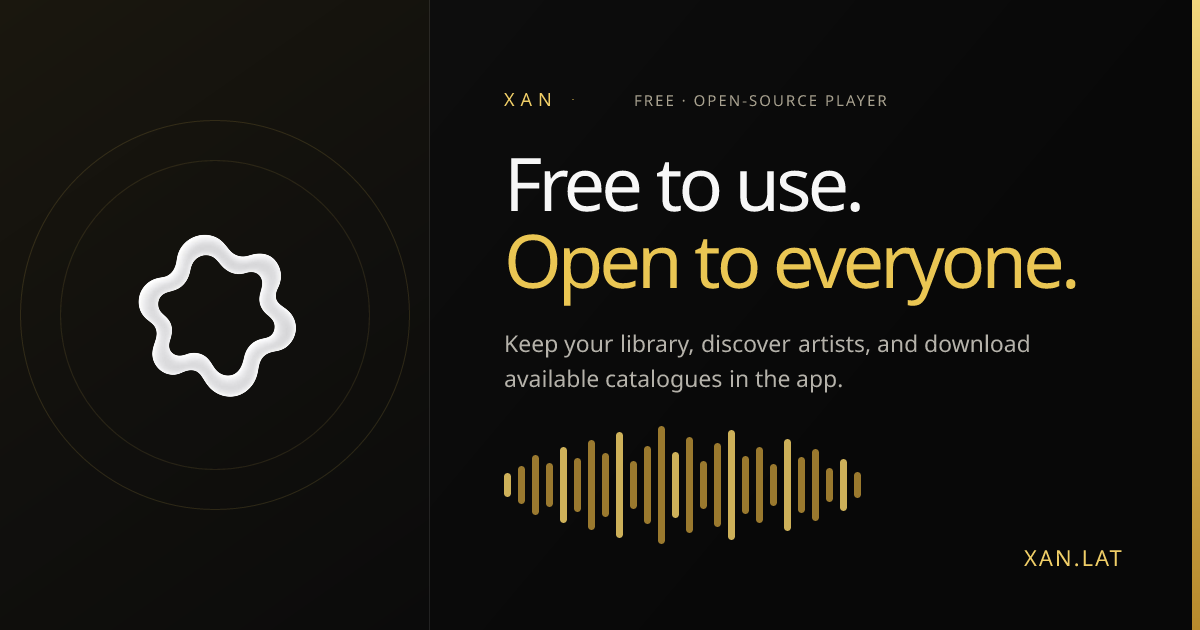
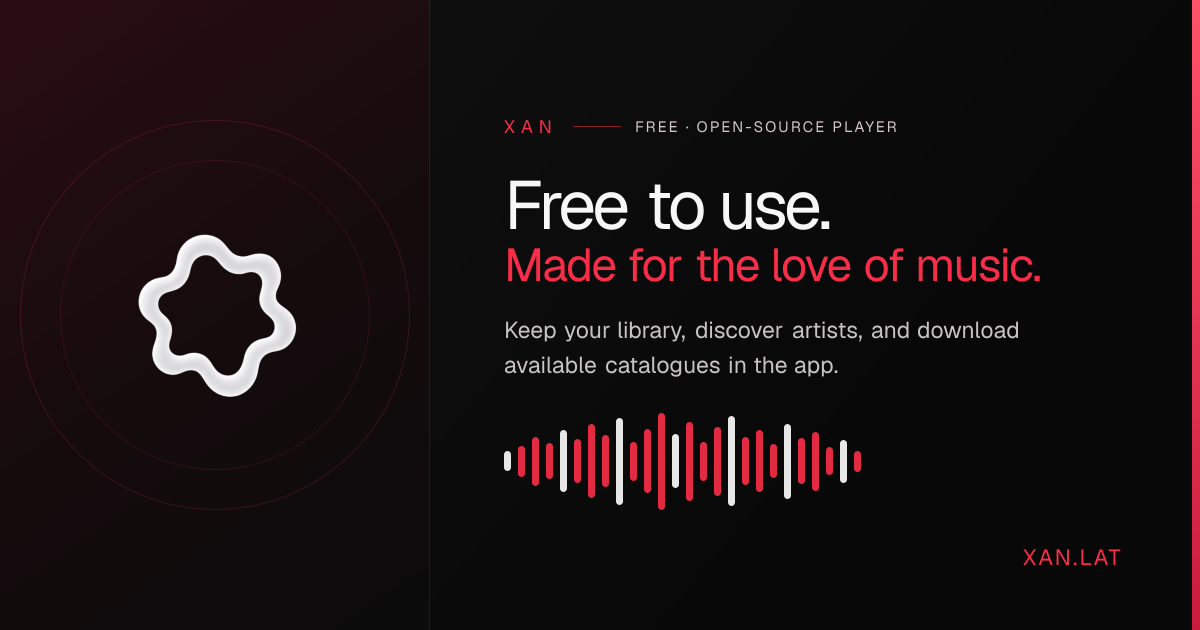
feat(web): refresh app screenshots and social card

diff --git a/web/lib/i18n.tsx b/web/lib/i18n.tsx
@@ -25,7 +25,7 @@ const translations: Record<Exclude<Language, "en">, Record<string, string>> = {
     "XAN EQUALIZER": "XAN-EQUALIZER", "Tune it your way.": "Stimme den Klang ab.", "Start with XAN’s circular three-range tuner, then open the five-band view for finer control. Your curve stays on this device and follows you between modes.": "Beginne mit dem runden Drei-Bereich-Regler von XAN und wechsle für mehr Kontrolle zur Fünf-Band-Ansicht. Deine Kurve bleibt auf diesem Gerät gespeichert.", "Equalizer presets": "Equalizer-Voreinstellungen", "Simple controls": "Einfache Steuerung", "Drag a range around the circle, or focus its slider and use the arrow keys.": "Ziehe einen Bereich im Kreis oder wähle seinen Regler und nutze die Pfeiltasten.", "XAN frequencies": "XAN-Frequenzen", "Advanced bands are sampled from the app’s real 31 Hz–16 kHz equalizer.": "Die erweiterten Bänder entsprechen dem echten 31-Hz-bis-16-kHz-Equalizer der App.", "Equalizer mode": "Equalizer-Modus", "Basic equalizer gain controls": "Einfache Equalizer-Regler", "Ten-band equalizer": "Zehn-Band-Equalizer", "All ten adjustable bands from 31 Hz to 16 kHz.": "Alle zehn einstellbaren Bänder von 31 Hz bis 16 kHz.", "Curve": "Kurve", "Basic": "Einfach", "Advanced": "Erweitert",
     "Back to XAN": "Zurück zu XAN", "Install the latest XAN release on your Android device.": "Installiere die aktuelle XAN-Version auf deinem Android-Gerät.", "A native macOS installer is in development.": "Ein nativer macOS-Installer ist in Entwicklung.", "An iOS version is in development.": "Eine iOS-Version ist in Entwicklung.", "A native Windows installer is in development.": "Ein nativer Windows-Installer ist in Entwicklung.", "A native Linux installer is in development.": "Ein nativer Linux-Installer ist in Entwicklung.", "Selected platform installer is in development": "Der Installer für die ausgewählte Plattform ist in Entwicklung.", "The latest release could not be loaded. You can still view it on GitHub.": "Die aktuelle Version konnte nicht geladen werden. Du kannst sie auf GitHub ansehen.", "Loading the latest release…": "Aktuelle Version wird geladen …",
     "Primary navigation": "Hauptnavigation", "Mobile navigation": "Mobile Navigation", "Download": "Herunterladen", "Source": "Quellcode", "View source code on GitHub": "Quellcode auf GitHub ansehen", "App": "App", "Support": "Unterstützung", "Choose language": "Sprache auswählen", "Back to top": "Nach oben",
-    "OPEN-SOURCE MUSIC PLAYER · ANDROID + DESKTOP": "OPEN-SOURCE-MUSIKPLAYER · ANDROID + DESKTOP", "Free to use.": "Kostenlos nutzbar.", "Open to everyone.": "Offen für alle.", "Keep your library, discover artists, and download available catalogues in the app.": "Behalte deine Bibliothek, entdecke Künstler und lade verfügbare Kataloge in der App herunter.", "Desktop version": "Desktop-Version", "Building right now": "Wird derzeit entwickelt", "CLONE THE SOURCE": "QUELLCODE KLONEN", "Start with the code.": "Starte mit dem Code.", "Choose your system, copy the command, and clone the public repository.": "Wähle dein System, kopiere den Befehl und klone das öffentliche Repository.", "Requires Git. The XAN app targets Android.": "Git erforderlich. Die XAN-App ist für Android vorgesehen.", "Explore XAN": "XAN entdecken",
+    "OPEN-SOURCE MUSIC PLAYER · ANDROID + DESKTOP": "OPEN-SOURCE-MUSIKPLAYER · ANDROID + DESKTOP", "Free to use.": "Kostenlos nutzbar.", "Made for the love of music.": "Aus Liebe zur Musik gemacht.", "Keep your library, discover artists, and download available catalogues in the app.": "Behalte deine Bibliothek, entdecke Künstler und lade verfügbare Kataloge in der App herunter.", "Desktop version": "Desktop-Version", "Building right now": "Wird derzeit entwickelt", "CLONE THE SOURCE": "QUELLCODE KLONEN", "Start with the code.": "Starte mit dem Code.", "Choose your system, copy the command, and clone the public repository.": "Wähle dein System, kopiere den Befehl und klone das öffentliche Repository.", "Requires Git. The XAN app targets Android.": "Git erforderlich. Die XAN-App ist für Android vorgesehen.", "Explore XAN": "XAN entdecken",
     "Download for Android": "Für Android herunterladen", "Choose installer": "Installer auswählen", "The latest Android APK will download automatically.": "Die aktuelle Android-APK wird automatisch heruntergeladen.", "Android is available now. Other installers are in development.": "Android ist jetzt verfügbar. Weitere Installer sind in Entwicklung.", "View all installer options": "Alle Installationsoptionen anzeigen", "XAN INSTALLERS": "XAN-INSTALLER", "Choose your device.": "Wähle dein Gerät.", "XAN is ready for Android. Installer builds for other platforms are in development.": "XAN ist für Android verfügbar. Installer für andere Plattformen sind in Entwicklung.", "Choose your device platform": "Geräteplattform auswählen", "Available now": "Jetzt verfügbar", "In development": "In Entwicklung", "SELECTED PLATFORM": "AUSGEWÄHLTE PLATTFORM", "Download Android APK": "Android-APK herunterladen", "View releases on GitHub": "Veröffentlichungen auf GitHub ansehen", "Looking for a specific build?": "Suchst du eine bestimmte Version?", "GitHub releases page": "GitHub-Veröffentlichungsseite", "lists every published Android installer.": "enthält alle veröffentlichten Android-Installer.",
     "APPEARANCE": "ERSCHEINUNGSBILD", "Glass when you want it.": "Glas, wenn du möchtest.", "Solid when you don’t.": "Solid, wenn nicht.", "Solid UI": "Solid-UI", "Glass UI": "Glass-UI", "LIQUID GLASS": "LIQUID GLASS", "Soft layers. Clear focus.": "Sanfte Ebenen. Klarer Fokus.", "Quiet surfaces. Strong contrast.": "Ruhige Flächen. Starker Kontrast.", "Switch the appearance to preview both styles.": "Wechsle das Erscheinungsbild, um beide Stile anzusehen.", "Previewing": "Vorschau:",
     "A modern open-source music player for Android.": "Ein moderner Open-Source-Musikplayer für Android.", "Made by bxane": "Erstellt von bxane", "SUPPORT XAN": "XAN UNTERSTÜTZEN", "Help keep it moving.": "Hilf mit, XAN voranzubringen.", "Choose the place that works for you.": "Wähle die passende Möglichkeit.", "Buy me a coffee": "Spendiere einen Kaffee", "Follow bxane": "bxane folgen", "GitHub profile": "GitHub-Profil", "COMMUNITY": "COMMUNITY", "Find your people.": "Finde deine Community.", "Join XAN updates and conversations.": "Verfolge XAN-Neuigkeiten und Gespräche.", "Chat with the community": "Mit der Community chatten", "Join the Telegram group": "Der Telegram-Gruppe beitreten",
@@ -36,7 +36,7 @@ const translations: Record<Exclude<Language, "en">, Record<string, string>> = {
     "XAN EQUALIZER": "ECUALIZADOR DE XAN", "Tune it your way.": "Ajusta el sonido a tu gusto.", "Start with XAN’s circular three-range tuner, then open the five-band view for finer control. Your curve stays on this device and follows you between modes.": "Empieza con el control circular de tres rangos de XAN y abre la vista de cinco bandas para ajustar con más precisión. La curva se guarda en este dispositivo.", "Equalizer presets": "Preajustes del ecualizador", "Simple controls": "Controles sencillos", "Drag a range around the circle, or focus its slider and use the arrow keys.": "Arrastra un rango por el círculo o selecciona su control y usa las flechas.", "XAN frequencies": "Frecuencias de XAN", "Advanced bands are sampled from the app’s real 31 Hz–16 kHz equalizer.": "Las bandas avanzadas reflejan el ecualizador real de 31 Hz a 16 kHz de la aplicación.", "Equalizer mode": "Modo del ecualizador", "Basic equalizer gain controls": "Controles básicos de ganancia", "Ten-band equalizer": "Ecualizador de diez bandas", "All ten adjustable bands from 31 Hz to 16 kHz.": "Las diez bandas ajustables de 31 Hz a 16 kHz.", "Curve": "Curva", "Basic": "Básico", "Advanced": "Avanzado",
     "Back to XAN": "Volver a XAN", "Install the latest XAN release on your Android device.": "Instala la versión más reciente de XAN en tu dispositivo Android.", "A native macOS installer is in development.": "El instalador nativo para macOS está en desarrollo.", "An iOS version is in development.": "La versión para iOS está en desarrollo.", "A native Windows installer is in development.": "El instalador nativo para Windows está en desarrollo.", "A native Linux installer is in development.": "El instalador nativo para Linux está en desarrollo.", "Selected platform installer is in development": "El instalador de la plataforma seleccionada está en desarrollo.", "The latest release could not be loaded. You can still view it on GitHub.": "No se pudo cargar la última versión. Aun así, puedes verla en GitHub.", "Loading the latest release…": "Cargando la última versión…",
     "Primary navigation": "Navegación principal", "Mobile navigation": "Navegación móvil", "Download": "Descargar", "Source": "Código fuente", "View source code on GitHub": "Ver el código fuente en GitHub", "App": "Aplicación", "Support": "Ayuda", "Choose language": "Elegir idioma", "Back to top": "Volver arriba",
-    "OPEN-SOURCE MUSIC PLAYER · ANDROID + DESKTOP": "REPRODUCTOR DE MÚSICA DE CÓDIGO ABIERTO · ANDROID + ESCRITORIO", "Free to use.": "Gratis para usar.", "Open to everyone.": "Abierto para todos.", "Keep your library, discover artists, and download available catalogues in the app.": "Conserva tu biblioteca, descubre artistas y descarga los catálogos disponibles en la aplicación.", "Desktop version": "Versión de escritorio", "Building right now": "En desarrollo", "CLONE THE SOURCE": "CLONA EL CÓDIGO", "Start with the code.": "Empieza con el código.", "Choose your system, copy the command, and clone the public repository.": "Elige tu sistema, copia el comando y clona el repositorio público.", "Requires Git. The XAN app targets Android.": "Se necesita Git. La aplicación XAN está diseñada para Android.", "Explore XAN": "Explora XAN",
+    "OPEN-SOURCE MUSIC PLAYER · ANDROID + DESKTOP": "REPRODUCTOR DE MÚSICA DE CÓDIGO ABIERTO · ANDROID + ESCRITORIO", "Free to use.": "Gratis para usar.", "Made for the love of music.": "Hecho por amor a la música.", "Keep your library, discover artists, and download available catalogues in the app.": "Conserva tu biblioteca, descubre artistas y descarga los catálogos disponibles en la aplicación.", "Desktop version": "Versión de escritorio", "Building right now": "En desarrollo", "CLONE THE SOURCE": "CLONA EL CÓDIGO", "Start with the code.": "Empieza con el código.", "Choose your system, copy the command, and clone the public repository.": "Elige tu sistema, copia el comando y clona el repositorio público.", "Requires Git. The XAN app targets Android.": "Se necesita Git. La aplicación XAN está diseñada para Android.", "Explore XAN": "Explora XAN",
     "Download for Android": "Descargar para Android", "Choose installer": "Elegir instalador", "The latest Android APK will download automatically.": "La última APK de Android se descargará automáticamente.", "Android is available now. Other installers are in development.": "Android ya está disponible. Los demás instaladores están en desarrollo.", "View all installer options": "Ver todas las opciones", "XAN INSTALLERS": "INSTALADORES DE XAN", "Choose your device.": "Elige tu dispositivo.", "XAN is ready for Android. Installer builds for other platforms are in development.": "XAN ya está disponible para Android. Los instaladores de otras plataformas están en desarrollo.", "Choose your device platform": "Elige la plataforma de tu dispositivo", "Available now": "Disponible ahora", "In development": "En desarrollo", "SELECTED PLATFORM": "PLATAFORMA SELECCIONADA", "Download Android APK": "Descargar APK de Android", "View releases on GitHub": "Ver versiones en GitHub", "Looking for a specific build?": "¿Buscas una versión concreta?", "GitHub releases page": "página de versiones de GitHub", "lists every published Android installer.": "incluye todos los instaladores de Android publicados.",
     "APPEARANCE": "ASPECTO", "Glass when you want it.": "Cristal cuando quieras.", "Solid when you don’t.": "Sólido cuando no.", "Solid UI": "Interfaz sólida", "Glass UI": "Interfaz de cristal", "LIQUID GLASS": "CRISTAL LÍQUIDO", "Soft layers. Clear focus.": "Capas suaves. Enfoque claro.", "Quiet surfaces. Strong contrast.": "Superficies discretas. Contraste marcado.", "Switch the appearance to preview both styles.": "Cambia el aspecto para probar ambos estilos.", "Previewing": "Vista previa:",
     "A modern open-source music player for Android.": "Un reproductor de música moderno y de código abierto para Android.", "Made by bxane": "Creado por bxane", "SUPPORT XAN": "APOYA A XAN", "Help keep it moving.": "Ayuda a que siga avanzando.", "Choose the place that works for you.": "Elige la opción que prefieras.", "Buy me a coffee": "Invítame a un café", "Follow bxane": "Sigue a bxane", "GitHub profile": "Perfil de GitHub", "COMMUNITY": "COMUNIDAD", "Find your people.": "Encuentra a tu gente.", "Join XAN updates and conversations.": "Únete a las novedades y conversaciones de XAN.", "Chat with the community": "Habla con la comunidad", "Join the Telegram group": "Únete al grupo de Telegram",
@@ -47,7 +47,7 @@ const translations: Record<Exclude<Language, "en">, Record<string, string>> = {
     "XAN EQUALIZER": "معادل XAN", "Tune it your way.": "اضبط الصوت كما تحب.", "Start with XAN’s circular three-range tuner, then open the five-band view for finer control. Your curve stays on this device and follows you between modes.": "ابدأ بمنظم XAN الدائري ذي النطاقات الثلاثة، ثم افتح عرض النطاقات الخمسة لمزيد من التحكم. يُحفظ منحنى الصوت على هذا الجهاز.", "Equalizer presets": "إعدادات المعادل المسبقة", "Simple controls": "عناصر تحكم بسيطة", "Drag a range around the circle, or focus its slider and use the arrow keys.": "اسحب النطاق حول الدائرة أو حدد شريطه واستخدم مفاتيح الأسهم.", "XAN frequencies": "ترددات XAN", "Advanced bands are sampled from the app’s real 31 Hz–16 kHz equalizer.": "النطاقات المتقدمة مأخوذة من معادل التطبيق الفعلي من 31 هرتز إلى 16 كيلوهرتز.", "Equalizer mode": "وضع المعادل", "Basic equalizer gain controls": "عناصر التحكم الأساسية في الكسب", "Ten-band equalizer": "معادل بعشرة نطاقات", "All ten adjustable bands from 31 Hz to 16 kHz.": "النطاقات العشرة القابلة للضبط من 31 هرتز إلى 16 كيلوهرتز.", "Curve": "المنحنى", "Basic": "أساسي", "Advanced": "متقدم",
     "Back to XAN": "العودة إلى XAN", "Install the latest XAN release on your Android device.": "ثبّت أحدث إصدار من XAN على جهاز أندرويد.", "A native macOS installer is in development.": "أداة التثبيت الأصلية لنظام macOS قيد التطوير.", "An iOS version is in development.": "نسخة iOS قيد التطوير.", "A native Windows installer is in development.": "أداة التثبيت الأصلية لنظام Windows قيد التطوير.", "A native Linux installer is in development.": "أداة التثبيت الأصلية لنظام Linux قيد التطوير.", "Selected platform installer is in development": "أداة التثبيت للمنصة المحددة قيد التطوير.", "The latest release could not be loaded. You can still view it on GitHub.": "تعذر تحميل أحدث إصدار. يمكنك الاطلاع عليه على GitHub.", "Loading the latest release…": "جارٍ تحميل أحدث إصدار…",
     "Primary navigation": "التنقل الرئيسي", "Mobile navigation": "التنقل على الهاتف", "Download": "تنزيل", "Source": "المصدر", "View source code on GitHub": "عرض الشيفرة المصدرية على GitHub", "App": "التطبيق", "Support": "الدعم", "Choose language": "اختر اللغة", "Back to top": "العودة إلى الأعلى",
-    "OPEN-SOURCE MUSIC PLAYER · ANDROID + DESKTOP": "مشغل موسيقى مفتوح المصدر · أندرويد وسطح المكتب", "Free to use.": "مجاني للاستخدام.", "Open to everyone.": "مفتوح للجميع.", "Keep your library, discover artists, and download available catalogues in the app.": "احتفظ بمكتبتك، واكتشف الفنانين، ونزّل الكتالوجات المتاحة في التطبيق.", "Desktop version": "نسخة سطح المكتب", "Building right now": "قيد التطوير حاليًا", "CLONE THE SOURCE": "استنسخ المصدر", "Start with the code.": "ابدأ بالشيفرة.", "Choose your system, copy the command, and clone the public repository.": "اختر نظامك وانسخ الأمر واستنسخ المستودع العام.", "Requires Git. The XAN app targets Android.": "يتطلب Git. تطبيق XAN مخصص لأندرويد.", "Explore XAN": "استكشف XAN",
+    "OPEN-SOURCE MUSIC PLAYER · ANDROID + DESKTOP": "مشغل موسيقى مفتوح المصدر · أندرويد وسطح المكتب", "Free to use.": "مجاني للاستخدام.", "Made for the love of music.": "صُنع حبًا بالموسيقى.", "Keep your library, discover artists, and download available catalogues in the app.": "احتفظ بمكتبتك، واكتشف الفنانين، ونزّل الكتالوجات المتاحة في التطبيق.", "Desktop version": "نسخة سطح المكتب", "Building right now": "قيد التطوير حاليًا", "CLONE THE SOURCE": "استنسخ المصدر", "Start with the code.": "ابدأ بالشيفرة.", "Choose your system, copy the command, and clone the public repository.": "اختر نظامك وانسخ الأمر واستنسخ المستودع العام.", "Requires Git. The XAN app targets Android.": "يتطلب Git. تطبيق XAN مخصص لأندرويد.", "Explore XAN": "استكشف XAN",
     "Download for Android": "التنزيل لأندرويد", "Choose installer": "اختر أداة التثبيت", "The latest Android APK will download automatically.": "سيتم تنزيل أحدث ملف APK لأندرويد تلقائيًا.", "Android is available now. Other installers are in development.": "أندرويد متاح الآن. أدوات التثبيت الأخرى قيد التطوير.", "View all installer options": "عرض جميع خيارات التثبيت", "XAN INSTALLERS": "أدوات تثبيت XAN", "Choose your device.": "اختر جهازك.", "XAN is ready for Android. Installer builds for other platforms are in development.": "XAN متاح لأندرويد. أدوات التثبيت للمنصات الأخرى قيد التطوير.", "Choose your device platform": "اختر منصة جهازك", "Available now": "متاح الآن", "In development": "قيد التطوير", "SELECTED PLATFORM": "المنصة المحددة", "Download Android APK": "تنزيل APK لأندرويد", "View releases on GitHub": "عرض الإصدارات على GitHub", "Looking for a specific build?": "هل تبحث عن إصدار محدد؟", "GitHub releases page": "صفحة إصدارات GitHub", "lists every published Android installer.": "تضم جميع أدوات تثبيت أندرويد المنشورة.",
     "APPEARANCE": "المظهر", "Glass when you want it.": "مظهر زجاجي عندما ترغب.", "Solid when you don’t.": "ومظهر صلب عندما لا ترغب.", "Solid UI": "واجهة صلبة", "Glass UI": "واجهة زجاجية", "LIQUID GLASS": "زجاج سائل", "Soft layers. Clear focus.": "طبقات ناعمة. تركيز واضح.", "Quiet surfaces. Strong contrast.": "أسطح هادئة. تباين واضح.", "Switch the appearance to preview both styles.": "بدّل المظهر لمعاينة النمطين.", "Previewing": "معاينة:",
     "A modern open-source music player for Android.": "مشغل موسيقى حديث ومفتوح المصدر لأندرويد.", "Made by bxane": "صُنع بواسطة bxane", "SUPPORT XAN": "ادعم XAN", "Help keep it moving.": "ساعدنا على مواصلة التطوير.", "Choose the place that works for you.": "اختر الطريقة المناسبة لك.", "Buy me a coffee": "اشترِ لي قهوة", "Follow bxane": "تابع bxane", "GitHub profile": "ملف GitHub الشخصي", "COMMUNITY": "المجتمع", "Find your people.": "اعثر على مجتمعك.", "Join XAN updates and conversations.": "تابع أخبار XAN ونقاشاته.", "Chat with the community": "تحدث مع المجتمع", "Join the Telegram group": "انضم إلى مجموعة Telegram",
@@ -57,7 +57,7 @@ const translations: Record<Exclude<Language, "en">, Record<string, string>> = {
     "XAN EQUALIZER": "اکولایزر XAN", "Tune it your way.": "صدا را مطابق سلیقهتان تنظیم کنید.", "Start with XAN’s circular three-range tuner, then open the five-band view for finer control. Your curve stays on this device and follows you between modes.": "با تنظیمکننده دایرهای سهبازهای XAN شروع کنید و برای کنترل دقیقتر نمای پنجبازهای را باز کنید. منحنی شما روی این دستگاه ذخیره میشود.", "Equalizer presets": "پیشتنظیمهای اکولایزر", "Simple controls": "کنترلهای ساده", "Drag a range around the circle, or focus its slider and use the arrow keys.": "یک بازه را روی دایره بکشید یا نوار آن را انتخاب کنید و از کلیدهای جهتدار کمک بگیرید.", "XAN frequencies": "فرکانسهای XAN", "Advanced bands are sampled from the app’s real 31 Hz–16 kHz equalizer.": "بازههای پیشرفته از اکولایزر واقعی ۳۱ هرتز تا ۱۶ کیلوهرتز برنامه گرفته شدهاند.", "Equalizer mode": "حالت اکولایزر", "Basic equalizer gain controls": "کنترلهای پایه بهره اکولایزر", "Ten-band equalizer": "اکولایزر دهبازهای", "All ten adjustable bands from 31 Hz to 16 kHz.": "هر ده بازه قابل تنظیم از ۳۱ هرتز تا ۱۶ کیلوهرتز.", "Curve": "منحنی", "Basic": "پایه", "Advanced": "پیشرفته",
     "Back to XAN": "بازگشت به XAN", "Install the latest XAN release on your Android device.": "آخرین نسخه XAN را روی دستگاه اندرویدی خود نصب کنید.", "A native macOS installer is in development.": "نصبکننده بومی macOS در حال توسعه است.", "An iOS version is in development.": "نسخه iOS در حال توسعه است.", "A native Windows installer is in development.": "نصبکننده بومی Windows در حال توسعه است.", "A native Linux installer is in development.": "نصبکننده بومی Linux در حال توسعه است.", "Selected platform installer is in development": "نصبکننده پلتفرم انتخابشده در حال توسعه است.", "The latest release could not be loaded. You can still view it on GitHub.": "بارگیری آخرین نسخه ممکن نشد. میتوانید آن را در GitHub ببینید.", "Loading the latest release…": "در حال بارگیری آخرین نسخه…",
     "Primary navigation": "پیمایش اصلی", "Mobile navigation": "پیمایش موبایل", "Download": "دریافت", "Source": "کد منبع", "View source code on GitHub": "مشاهده کد منبع در GitHub", "App": "اپلیکیشن", "Support": "پشتیبانی", "Choose language": "انتخاب زبان", "Back to top": "بازگشت به بالا",
-    "OPEN-SOURCE MUSIC PLAYER · ANDROID + DESKTOP": "پخشکننده موسیقی متنباز · اندروید و دسکتاپ", "Free to use.": "رایگان برای استفاده.", "Open to everyone.": "برای همه آزاد.", "Keep your library, discover artists, and download available catalogues in the app.": "کتابخانهتان را نگه دارید، هنرمندان را کشف کنید و فهرستهای در دسترس را در برنامه دانلود کنید.", "Desktop version": "نسخه دسکتاپ", "Building right now": "در حال توسعه", "CLONE THE SOURCE": "دریافت کد منبع", "Start with the code.": "با کد شروع کنید.", "Choose your system, copy the command, and clone the public repository.": "سیستمعامل را انتخاب و دستور را کپی کنید و مخزن عمومی را دریافت کنید.", "Requires Git. The XAN app targets Android.": "به Git نیاز دارد. اپلیکیشن XAN برای اندروید است.", "Explore XAN": "گشتوگذار در XAN",
+    "OPEN-SOURCE MUSIC PLAYER · ANDROID + DESKTOP": "پخشکننده موسیقی متنباز · اندروید و دسکتاپ", "Free to use.": "رایگان برای استفاده.", "Made for the love of music.": "ساختهشده از عشق به موسیقی.", "Keep your library, discover artists, and download available catalogues in the app.": "کتابخانهتان را نگه دارید، هنرمندان را کشف کنید و فهرستهای در دسترس را در برنامه دانلود کنید.", "Desktop version": "نسخه دسکتاپ", "Building right now": "در حال توسعه", "CLONE THE SOURCE": "دریافت کد منبع", "Start with the code.": "با کد شروع کنید.", "Choose your system, copy the command, and clone the public repository.": "سیستمعامل را انتخاب و دستور را کپی کنید و مخزن عمومی را دریافت کنید.", "Requires Git. The XAN app targets Android.": "به Git نیاز دارد. اپلیکیشن XAN برای اندروید است.", "Explore XAN": "گشتوگذار در XAN",
     "Download for Android": "دریافت برای اندروید", "Choose installer": "انتخاب نصبکننده", "The latest Android APK will download automatically.": "آخرین فایل APK اندروید بهطور خودکار دریافت میشود.", "Android is available now. Other installers are in development.": "اندروید اکنون در دسترس است. نصبکنندههای دیگر در حال توسعهاند.", "View all installer options": "دیدن همه گزینههای نصب", "XAN INSTALLERS": "نصبکنندههای XAN", "Choose your device.": "دستگاهتان را انتخاب کنید.", "XAN is ready for Android. Installer builds for other platforms are in development.": "XAN برای اندروید آماده است. نصبکنندههای پلتفرمهای دیگر در حال توسعهاند.", "Choose your device platform": "پلتفرم دستگاه را انتخاب کنید", "Available now": "اکنون در دسترس", "In development": "در حال توسعه", "SELECTED PLATFORM": "پلتفرم انتخابشده", "Download Android APK": "دریافت APK اندروید", "View releases on GitHub": "دیدن نسخهها در GitHub", "Looking for a specific build?": "دنبال نسخه خاصی هستید؟", "GitHub releases page": "صفحه انتشارهای GitHub", "lists every published Android installer.": "همه نصبکنندههای منتشرشده اندروید را فهرست میکند.",
     "APPEARANCE": "ظاهر", "Glass when you want it.": "هر وقت خواستید شیشهای.", "Solid when you don’t.": "و هر وقت نخواستید ساده.", "Solid UI": "رابط ساده", "Glass UI": "رابط شیشهای", "LIQUID GLASS": "شیشه مایع", "Soft layers. Clear focus.": "لایههای نرم. تمرکز روشن.", "Quiet surfaces. Strong contrast.": "سطحهای آرام. کنتراست قوی.", "Switch the appearance to preview both styles.": "برای پیشنمایش هر دو سبک، ظاهر را تغییر دهید.", "Previewing": "پیشنمایش:",
     "A modern open-source music player for Android.": "پخشکننده موسیقی مدرن و متنباز برای اندروید.", "Made by bxane": "ساختهشده توسط bxane", "SUPPORT XAN": "حمایت از XAN", "Help keep it moving.": "برای ادامه مسیر کمک کنید.", "Choose the place that works for you.": "روش مناسب خود را انتخاب کنید.", "Buy me a coffee": "یک قهوه مهمانم کنید", "Follow bxane": "bxane را دنبال کنید", "GitHub profile": "نمایه GitHub", "COMMUNITY": "جامعه", "Find your people.": "همراهان خود را پیدا کنید.", "Join XAN updates and conversations.": "بهروزرسانیها و گفتوگوهای XAN را دنبال کنید.", "Chat with the community": "با جامعه گفتوگو کنید", "Join the Telegram group": "به گروه تلگرام بپیوندید",
@@ -68,7 +68,7 @@ const translations: Record<Exclude<Language, "en">, Record<string, string>> = {
     "XAN EQUALIZER": "ÉGALISEUR XAN", "Tune it your way.": "Réglez le son à votre façon.", "Start with XAN’s circular three-range tuner, then open the five-band view for finer control. Your curve stays on this device and follows you between modes.": "Commencez avec le réglage circulaire à trois plages de XAN, puis ouvrez la vue à cinq bandes pour un contrôle plus précis. Votre courbe reste enregistrée sur cet appareil.", "Equalizer presets": "Préréglages de l’égaliseur", "Simple controls": "Commandes simples", "Drag a range around the circle, or focus its slider and use the arrow keys.": "Faites glisser une plage sur le cercle ou sélectionnez son curseur et utilisez les flèches.", "XAN frequencies": "Fréquences XAN", "Advanced bands are sampled from the app’s real 31 Hz–16 kHz equalizer.": "Les bandes avancées reprennent l’égaliseur réel de l’application, de 31 Hz à 16 kHz.", "Equalizer mode": "Mode égaliseur", "Basic equalizer gain controls": "Réglages de gain simples", "Ten-band equalizer": "Égaliseur à dix bandes", "All ten adjustable bands from 31 Hz to 16 kHz.": "Les dix bandes réglables, de 31 Hz à 16 kHz.", "Curve": "Courbe", "Basic": "Simple", "Advanced": "Avancé",
     "Back to XAN": "Retour à XAN", "Install the latest XAN release on your Android device.": "Installez la dernière version de XAN sur votre appareil Android.", "A native macOS installer is in development.": "L’installateur natif macOS est en cours de développement.", "An iOS version is in development.": "La version iOS est en cours de développement.", "A native Windows installer is in development.": "L’installateur natif Windows est en cours de développement.", "A native Linux installer is in development.": "L’installateur natif Linux est en cours de développement.", "Selected platform installer is in development": "L’installateur de la plateforme choisie est en développement.", "The latest release could not be loaded. You can still view it on GitHub.": "La dernière version n’a pas pu être chargée. Vous pouvez la consulter sur GitHub.", "Loading the latest release…": "Chargement de la dernière version…",
     "Primary navigation": "Navigation principale", "Mobile navigation": "Navigation mobile", "Download": "Télécharger", "Source": "Code source", "View source code on GitHub": "Voir le code source sur GitHub", "App": "Application", "Support": "Assistance", "Choose language": "Choisir la langue", "Back to top": "Retour en haut",
-    "OPEN-SOURCE MUSIC PLAYER · ANDROID + DESKTOP": "LECTEUR DE MUSIQUE OPEN SOURCE · ANDROID + ORDINATEUR", "Free to use.": "Gratuit à utiliser.", "Open to everyone.": "Ouvert à tout le monde.", "Keep your library, discover artists, and download available catalogues in the app.": "Gardez votre bibliothèque, découvrez des artistes et téléchargez les catalogues disponibles dans l’application.", "Desktop version": "Version ordinateur", "Building right now": "En cours de développement", "CLONE THE SOURCE": "CLONER LE CODE SOURCE", "Start with the code.": "Commencez par le code.", "Choose your system, copy the command, and clone the public repository.": "Choisissez votre système, copiez la commande et clonez le dépôt public.", "Requires Git. The XAN app targets Android.": "Git est requis. L’application XAN est conçue pour Android.", "Explore XAN": "Découvrir XAN",
+    "OPEN-SOURCE MUSIC PLAYER · ANDROID + DESKTOP": "LECTEUR DE MUSIQUE OPEN SOURCE · ANDROID + ORDINATEUR", "Free to use.": "Gratuit à utiliser.", "Made for the love of music.": "Fait par amour pour la musique.", "Keep your library, discover artists, and download available catalogues in the app.": "Gardez votre bibliothèque, découvrez des artistes et téléchargez les catalogues disponibles dans l’application.", "Desktop version": "Version ordinateur", "Building right now": "En cours de développement", "CLONE THE SOURCE": "CLONER LE CODE SOURCE", "Start with the code.": "Commencez par le code.", "Choose your system, copy the command, and clone the public repository.": "Choisissez votre système, copiez la commande et clonez le dépôt public.", "Requires Git. The XAN app targets Android.": "Git est requis. L’application XAN est conçue pour Android.", "Explore XAN": "Découvrir XAN",
     "Download for Android": "Télécharger pour Android", "Choose installer": "Choisir un installateur", "The latest Android APK will download automatically.": "Le dernier APK Android sera téléchargé automatiquement.", "Android is available now. Other installers are in development.": "Android est disponible. Les autres installateurs sont en cours de développement.", "View all installer options": "Voir toutes les options d’installation", "XAN INSTALLERS": "INSTALLATEURS XAN", "Choose your device.": "Choisissez votre appareil.", "XAN is ready for Android. Installer builds for other platforms are in development.": "XAN est disponible sur Android. Les installateurs pour les autres plateformes sont en développement.", "Choose your device platform": "Choisir la plateforme de votre appareil", "Available now": "Disponible", "In development": "En développement", "SELECTED PLATFORM": "PLATEFORME SÉLECTIONNÉE", "Download Android APK": "Télécharger l’APK Android", "View releases on GitHub": "Voir les versions sur GitHub", "Looking for a specific build?": "Vous cherchez une version précise ?", "GitHub releases page": "page des versions GitHub", "lists every published Android installer.": "répertorie tous les installateurs Android publiés.",
     "APPEARANCE": "APPARENCE", "Glass when you want it.": "Du verre quand vous le souhaitez.", "Solid when you don’t.": "Du solide quand vous ne le souhaitez pas.", "Solid UI": "Interface solide", "Glass UI": "Interface en verre", "LIQUID GLASS": "VERRE LIQUIDE", "Soft layers. Clear focus.": "Des couches douces. Une mise au point nette.", "Quiet surfaces. Strong contrast.": "Des surfaces discrètes. Un contraste marqué.", "Switch the appearance to preview both styles.": "Changez l’apparence pour prévisualiser les deux styles.", "Previewing": "Aperçu :",
     "A modern open-source music player for Android.": "Un lecteur de musique moderne et open source pour Android.", "Made by bxane": "Créé par bxane", "SUPPORT XAN": "SOUTENIR XAN", "Help keep it moving.": "Aidez le projet à avancer.", "Choose the place that works for you.": "Choisissez l’option qui vous convient.", "Buy me a coffee": "Offrez-moi un café", "Follow bxane": "Suivre bxane", "GitHub profile": "Profil GitHub", "COMMUNITY": "COMMUNAUTÉ", "Find your people.": "Trouvez votre communauté.", "Join XAN updates and conversations.": "Suivez les actualités et les échanges autour de XAN.", "Chat with the community": "Discuter avec la communauté", "Join the Telegram group": "Rejoindre le groupe Telegram",

diff --git a/web/components/sections/ScreenshotShowcase.tsx b/web/components/sections/ScreenshotShowcase.tsx
@@ -5,89 +5,89 @@ import { T, useLanguage } from "@/lib/i18n";
 
 const screenshots = [
   {
-    src: "/screenshots/magnet-expanded.jpg",
-    label: "Magnet navigation",
-    alt: "XAN Search screen with the Magnet shortcut menu expanded",
+    src: "/screenshots/home-shortcuts.jpg",
+    label: "Home shortcuts",
+    alt: "XAN Listen Now home screen with the navigation shortcuts open",
   },
   {
-    src: "/screenshots/08.jpg",
-    label: "Legacy navigation",
-    alt: "XAN Listen Now screen with the classic bottom navigation bar",
-  },
-  {
-    src: "/screenshots/01.jpg",
-    label: "Media controls",
-    alt: "XAN lock screen media controls",
-  },
-  {
-    src: "/screenshots/02.jpg",
-    label: "Top songs",
-    alt: "XAN Search suggestions showing top songs",
-  },
-  {
-    src: "/screenshots/03.jpg",
-    label: "Trending albums",
-    alt: "XAN Search suggestions showing trending albums",
-  },
-  {
-    src: "/screenshots/04.jpg",
-    label: "Explore",
-    alt: "XAN Explore screen with moods and moments",
-  },
-  {
-    src: "/screenshots/05.jpg",
-    label: "Search",
-    alt: "XAN Search screen with the keyboard open",
-  },
-  {
-    src: "/screenshots/06.jpg",
-    label: "Mini player",
-    alt: "XAN Search screen with the floating mini player",
-  },
-  {
-    src: "/screenshots/07.jpg",
+    src: "/screenshots/library.jpg",
     label: "Library",
-    alt: "XAN Library screen",
+    alt: "XAN library screen with saved music and collections",
   },
   {
-    src: "/screenshots/09.jpg",
-    label: "Recently played",
-    alt: "XAN home screen showing recently played music",
+    src: "/screenshots/recognize-music.jpg",
+    label: "Song recognition",
+    alt: "XAN Recognize Music screen",
   },
   {
-    src: "/screenshots/10.jpg",
-    label: "Appearance",
-    alt: "XAN Appearance settings screen",
+    src: "/screenshots/player-audio-settings.jpg",
+    label: "Player audio settings",
+    alt: "XAN player and audio settings screen",
   },
   {
-    src: "/screenshots/11.jpg",
-    label: "Equalizer",
-    alt: "XAN advanced equalizer controls",
-  },
-  {
-    src: "/screenshots/12.jpg",
+    src: "/screenshots/settings.jpg",
     label: "Settings",
     alt: "XAN settings screen",
   },
   {
-    src: "/screenshots/13.jpg",
-    label: "Search",
-    alt: "XAN Search suggestions and trending albums",
+    src: "/screenshots/system-update.jpg",
+    label: "System update",
+    alt: "XAN system update screen",
   },
   {
-    src: "/screenshots/14.jpg",
-    label: "Recognize Music",
-    alt: "XAN music recognition screen",
+    src: "/screenshots/appearance.jpg",
+    label: "Appearance",
+    alt: "XAN Appearance settings screen",
   },
   {
-    src: "/screenshots/15.jpg",
-    label: "Library",
-    alt: "XAN Library with playlists, downloaded music, and local files",
+    src: "/screenshots/about.jpg",
+    label: "About",
+    alt: "XAN About screen",
   },
   {
-    src: "/screenshots/16.jpg",
+    src: "/screenshots/home-mini-player.jpg",
+    label: "Home mini player",
+    alt: "XAN Listen Now home screen with the mini player active",
+  },
+  {
+    src: "/screenshots/now-playing.jpg",
     label: "Now playing",
     alt: "XAN full-screen player with track details and playback controls",
+  },
+  {
+    src: "/screenshots/artist-adele.jpg",
+    label: "Adele",
+    alt: "XAN artist page for Adele",
+  },
+  {
+    src: "/screenshots/listen-together.jpg",
+    label: "Listen together",
+    alt: "XAN Listen Together screen",
+  },
+  {
+    src: "/screenshots/integrations.jpg",
+    label: "Integrations",
+    alt: "XAN integrations settings screen",
+  },
+  {
+    src: "/screenshots/account-settings.jpg",
+    label: "Account settings",
+    alt: "XAN account settings screen",
+  },
+  {
+    src: "/screenshots/content-settings.jpg",
+    label: "Content settings",
+    alt: "XAN content settings screen",
+  },
+  {
+    src: "/screenshots/artist-olivia-rodrigo.jpg",
+    label: "Olivia Rodrigo",
+    alt: "XAN artist page for Olivia Rodrigo",
+  },
+  {
+    src: "/screenshots/search.jpg",
+    label: "Search",
+    alt: "XAN search screen with suggestions and Apple Music Top 100",
   },
 ] as const;
 

diff --git a/web/app/globals.css b/web/app/globals.css
@@ -405,9 +405,8 @@ html[dir="rtl"] .download-page-header { direction:rtl; }
 .xan-app-brandline .xan-brand-mark { width:42px; height:42px; }
 .xan-app-hero .hero-title { margin:0 0 24px; font-size:clamp(54px,6.5vw,94px); line-height:1.02; letter-spacing:-.065em; font-weight:750; }
 .xan-app-hero .hero-description { max-width:470px; color:var(--muted); font-size:clamp(16px,1.7vw,19px); line-height:1.7; }
-.xan-app-hero .hero-actions { display:flex; flex-wrap:wrap; gap:14px; align-items:center; margin-top:30px; }
-.xan-app-hero-pills { display:flex; flex-wrap:wrap; gap:9px; margin-top:36px; }
-.xan-app-hero-pills span { padding:9px 14px; border:1px solid var(--line); border-radius:999px; background:var(--panel); color:var(--muted); font-size:12px; }
+.xan-app-hero .hero-actions { display:flex; flex-wrap:wrap; gap:14px; align-items:flex-start; margin-top:30px; }
+.xan-app-hero .download-button,.xan-app-hero .github-repo-button { min-height:54px; }
 .xan-app-preview { position:relative; overflow:hidden; padding:22px 24px 0; border:1px solid var(--line); border-radius:28px; background:radial-gradient(ellipse at 50% 35%,color-mix(in srgb,var(--pink) 11%,transparent),transparent 65%),var(--panel); text-align:center; }
 .xan-app-preview-header { display:flex; align-items:center; gap:9px; color:var(--muted); font-size:10px; font-weight:700; letter-spacing:.12em; text-align:left; }
 .xan-app-preview-header span:last-child { margin-left:auto; }
@@ -453,8 +452,6 @@ body { background:var(--bg); }
 .xan-landing .xan-app-hero-copy { max-width:850px; }
 .xan-landing .hero-title { font-size:clamp(58px,10vw,128px); letter-spacing:-.075em; line-height:.98; font-weight:750; }
 .xan-landing .hero-description { max-width:560px; font-size:clamp(16px,2vw,19px); color:var(--muted); line-height:1.65; }
-.xan-landing .xan-app-hero-pills { display:flex; flex-wrap:wrap; gap:10px; margin-top:28px; }
-.xan-landing .xan-app-hero-pills span { border:1px solid var(--line); background:var(--panel); border-radius:999px; padding:9px 15px; font-size:13px; color:var(--ink); }
 .xan-landing .xan-app-source { margin-top:clamp(70px,9vw,125px); }
 .xan-landing .hero-ambient { opacity:.22; }
 #screenshots { margin-top:30px; }

diff --git a/web/app/layout.tsx b/web/app/layout.tsx
@@ -4,6 +4,7 @@ import "./globals.css";
 
 const logo = "/xan-white-mark-512.png";
 const socialImage = "/xan-social-card.png";
+const socialTitle = "XAN — Free to use. Made for the love of music.";
 
 const themeScript = `
 (function () {
@@ -37,7 +38,7 @@ export const metadata: Metadata = {
   alternates: {
     canonical: "/",
   },
-  title: "XAN — Free to use. Open to everyone.",
+  title: socialTitle,
   description: "A free, open-source Android player. Discover artists and download available catalogues.",
   applicationName: "XAN",
   icons: {
@@ -49,16 +50,16 @@ export const metadata: Metadata = {
     url: "https://xan.lat/",
     siteName: "XAN",
     locale: "en_US",
-    title: "XAN — Free to use. Open to everyone.",
+    title: socialTitle,
     description: "A free, open-source Android player. Discover artists and download available catalogues.",
     type: "website",
-    images: [{ url: socialImage, width: 1200, height: 630, alt: "XAN — Free to use. Open to everyone.", type: "image/png" }],
+    images: [{ url: socialImage, width: 1200, height: 630, alt: socialTitle, type: "image/png" }],
   },
   twitter: {
     card: "summary_large_image",
     site: "@bxanedot",
     creator: "@bxanedot",
-    title: "XAN — Free to use. Open to everyone.",
+    title: socialTitle,
     description: "A free, open-source Android player. Discover artists and download available catalogues.",
     images: [socialImage],
   },

diff --git a/web/components/sections/AppPreviewCarousel.tsx b/web/components/sections/AppPreviewCarousel.tsx
@@ -3,8 +3,23 @@
 import { useEffect, useState } from "react";
 
 const shots = [
-  "magnet-expanded.jpg",
-  ...Array.from({ length: 16 }, (_, i) => String(i + 1).padStart(2, "0") + ".jpg"),
+  "home-shortcuts.jpg",
+  "library.jpg",
+  "recognize-music.jpg",
+  "player-audio-settings.jpg",
+  "settings.jpg",
+  "system-update.jpg",
+  "appearance.jpg",
+  "about.jpg",
+  "home-mini-player.jpg",
+  "now-playing.jpg",
+  "artist-adele.jpg",
+  "listen-together.jpg",
+  "integrations.jpg",
+  "account-settings.jpg",
+  "content-settings.jpg",
+  "artist-olivia-rodrigo.jpg",
+  "search.jpg",
 ];
 const src = (name: string) => "/screenshots/" + name;
 

diff --git a/web/components/sections/Hero.tsx b/web/components/sections/Hero.tsx
@@ -20,7 +20,6 @@ export function Hero() {
               <GitHubIcon className="github-repo-icon" /><T text="View source code on GitHub" />
             </a>
           </div>
-          <div className="xan-app-hero-pills" aria-label="XAN features"><span>Library</span><span>Lyrics</span><span>Equalizer</span><span>Playlists</span></div>
         </div>
 
       </div>
